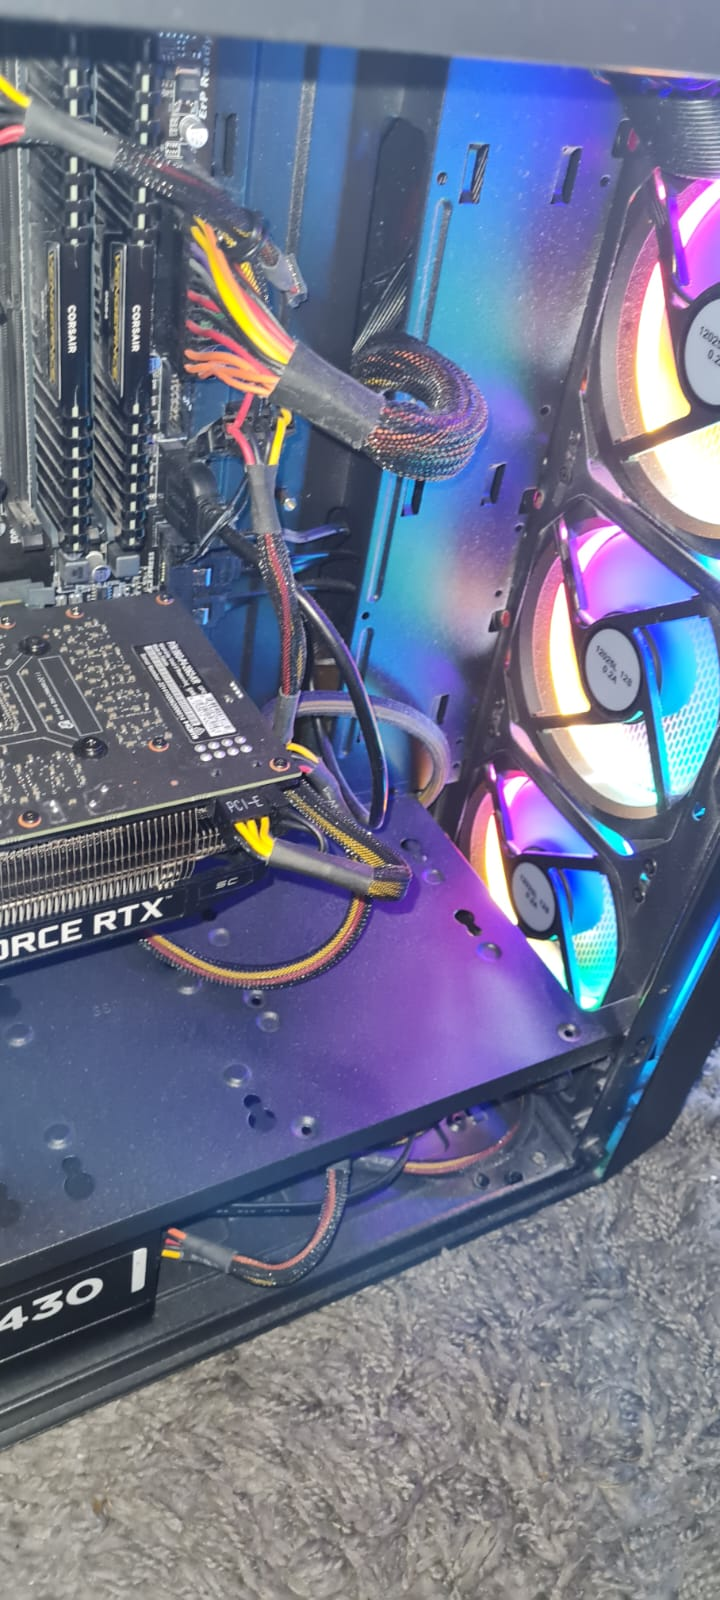
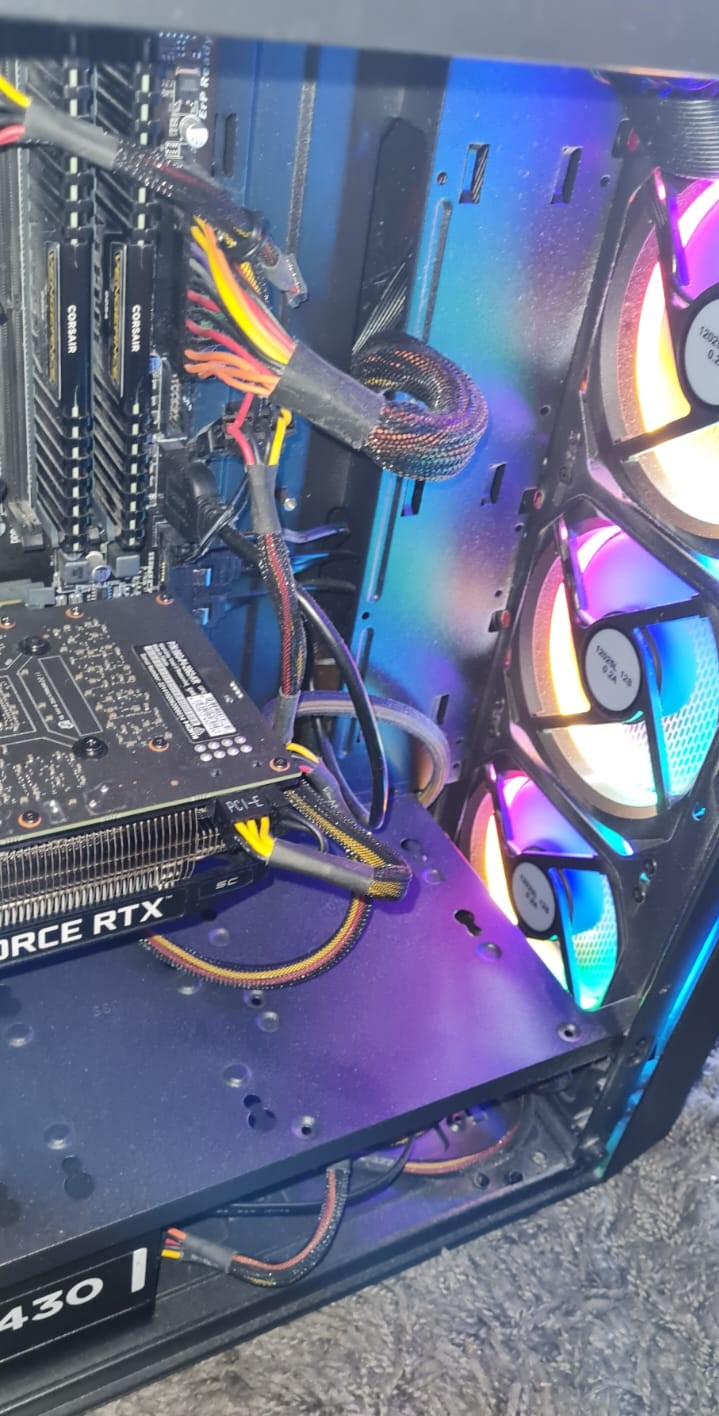
resub changed some color issues, modified images, adjusted css

diff --git a/assets/css/style.css b/assets/css/style.css
@@ -57,12 +57,12 @@ p {
 
 #cover-text {
     height: 350px;
-    width: 400px;
+    width: 350px;
     position: absolute;
     color: #fafafa;
     background-color: rgba(72, 79, 87, 0.9);
     font-size: 100%;
-    right: 30%;
+    right: 35%;
     bottom: 25%;
     padding: 10px;
     text-align: left;
@@ -70,7 +70,8 @@ p {
 
 #hero-image  {
     height: 600px;
-    width: 100%;
+    width: 80%;
+    margin: auto;
 }
 
 #hero-image img {
@@ -96,7 +97,7 @@ p {
     width: 100%;
     text-align: center;
     margin-top: 10px;
-    color: #119822;
+    color: #fafafa;
     background-color: rgb(51, 56, 62);
     border-color: rgb(36, 39, 43) ;
     border-style: groove;
@@ -128,8 +129,7 @@ p {
 }
 
 .person img {
-  
-    width: 100%;
+    width: 90%;
     height: 300px;
     border-color: rgb(36, 39, 43);
     border-style: double;
@@ -143,13 +143,14 @@ p {
     background-color: #3B413C;
     color: #fafafa;
     padding: 10px;
+    text-align: start;
 }
 
 .set-up {
     margin-left: 50px;
     margin-top: 40px;
     height: 300px;
-    width: 300px;
+    width: 90%;
 }
 
 .style {
@@ -261,19 +262,27 @@ button[type="button"]:hover {
 
 @media screen and (max-width:1200px) {
     #cover-text {
-        width: 75%;
+        width: 65%;
         height: auto;
         margin-left: 25px;
-        left: 5%;
+        left: 15%;
     }
 
     .style .col {
         width: 33%;
     }
 
+    .slideshow {
+        width: 70%;
+        height: 250px;
+        margin-top: 25px;
+        margin: auto;
+    }
+
     .person {
         margin: 0 0 0 10px;     
-        width: 100%;
+        width: 60%;
+        height: 350px;
     }
 
     .person img {
@@ -284,8 +293,8 @@ button[type="button"]:hover {
     }
 
     .description {
-        width: 100%;
-        height: 300px;
+        width: 70%;
+        height: auto;
         margin: 0;
         font-size: small;
         margin-bottom: 10px;
@@ -310,7 +319,7 @@ button[type="button"]:hover {
 
     .set-up {
         margin: 0;
-        width: 100%;
+        width: 80%;
         height: 300px;
     }
 
@@ -350,6 +359,19 @@ button[type="button"]:hover {
     .nav {
         font-size: large;
     }
+    #cover-text {
+        width: 65%;
+        height: auto;
+        margin-left: 25px;
+        left: 15%;
+        bottom: 15%;
+    }
+
+    .person {
+        margin: 0 0 0 10px;     
+        width: 100%;
+        height: 350px;
+    }
 
     .person h4 {
         margin-top: 10px;
@@ -357,6 +379,14 @@ button[type="button"]:hover {
 
     .description {
         font-size: medium;
+        width: 100%;
+    }
+
+    .slideshow {
+        width: 100%;
+        height: 250px;
+        margin-top: 25px;
+        margin: auto;
     }
 
     section .row .col {

diff --git a/meet-the-team.html b/meet-the-team.html
@@ -88,7 +88,7 @@
                                     <img src="assets/images/My-setup2(1).JPEG" class="d-block w-30" alt="Louie's setup">
                                 </div>
                                 <div class="carousel-item">
-                                    <img src="assets/images/My-setup3.JPEG" class="d-block w-30" alt="Louie's setup">
+                                    <img src="assets/images/My-setup-3.JPEG" class="d-block w-30" alt="Louie's setup">
                                 </div>
                                 </div>
                                 <a class="carousel-control-prev" href="#louie" role="button" data-slide="prev">
@@ -193,19 +193,19 @@
                     <div class="social-links">
                         <h4>Find us here:</h4>
                         <a target="_blank" href="https://www.facebook.com">
-                            <i class="fa fa-facebook" aria-hidden="true">Facebook</i>
+                            <i class="fa fa-facebook" aria-hidden="true"></i>
                             <span class="sr-only">Facebook</span>
                         </a>    
                         <a target="_blank" href="https://www.Instagram.com">
-                            <i class="fa fa-instagram" aria-hidden="true">Instagram</i>
+                            <i class="fa fa-instagram" aria-hidden="true"></i>
                             <span class="sr-only">Instagram</span>
                         </a>
                         <a target="_blank" href="https://www.Twitter.com">
-                            <i class="fa fa-twitter" aria-hidden="true">Twitter</i>
+                            <i class="fa fa-twitter" aria-hidden="true"></i>
                             <span class="sr-only">Twitter</span>
                         </a>
                         <a target="_blank" href="https://www.Discord.com">
-                            <i class="fa-brands fa-discord" aria-hidden="true">Discord</i>
+                            <i class="fa-brands fa-discord" aria-hidden="true"></i>
                             <span class="sr-only">Discord</span>
                         </a>
                     </div>

diff --git a/index.html b/index.html
@@ -131,19 +131,19 @@
                     <div class="social-links">
                         <h4>Find us here:</h4>
                         <a target="_blank" href="https://www.facebook.com">
-                            <i class="fa fa-facebook" aria-hidden="true">Facebook</i>
+                            <i class="fa fa-facebook" aria-hidden="true"></i>
                             <span class="sr-only">Facebook</span>
                         </a>    
                         <a target="_blank" href="https://www.Instagram.com">
-                            <i class="fa fa-instagram" aria-hidden="true">Instagram</i>
+                            <i class="fa fa-instagram" aria-hidden="true"></i>
                             <span class="sr-only">Instagram</span>
                         </a>
                         <a target="_blank" href="https://www.Twitter.com">
-                            <i class="fa fa-twitter" aria-hidden="true">Twitter</i>
+                            <i class="fa fa-twitter" aria-hidden="true"></i>
                             <span class="sr-only">Twitter</span>
                         </a>
                         <a target="_blank" href="https://www.Discord.com">
-                            <i class="fa-brands fa-discord" aria-hidden="true">Discord</i>
+                            <i class="fa-brands fa-discord" aria-hidden="true"></i>
                             <span class="sr-only">Discord</span>
                         </a>
                     </div>

diff --git a/enquiries.html b/enquiries.html
@@ -63,19 +63,19 @@
                     <div class="social-links">
                         <h4>Find us here:</h4>
                         <a target="_blank" href="https://www.facebook.com">
-                            <i class="fa fa-facebook" aria-hidden="true">Facebook</i>
+                            <i class="fa fa-facebook" aria-hidden="true"></i>
                             <span class="sr-only">Facebook</span>
                         </a>    
                         <a target="_blank" href="https://www.Instagram.com">
-                            <i class="fa fa-instagram" aria-hidden="true">Instagram</i>
+                            <i class="fa fa-instagram" aria-hidden="true"></i>
                             <span class="sr-only">Instagram</span>
                         </a>
                         <a target="_blank" href="https://www.Twitter.com">
-                            <i class="fa fa-twitter" aria-hidden="true">Twitter</i>
+                            <i class="fa fa-twitter" aria-hidden="true"></i>
                             <span class="sr-only">Twitter</span>
                         </a>
                         <a target="_blank" href="https://www.Discord.com">
-                            <i class="fa-brands fa-discord" aria-hidden="true">Discord</i>
+                            <i class="fa-brands fa-discord" aria-hidden="true"></i>
                             <span class="sr-only">Discord</span>
                         </a>
                     </div>
